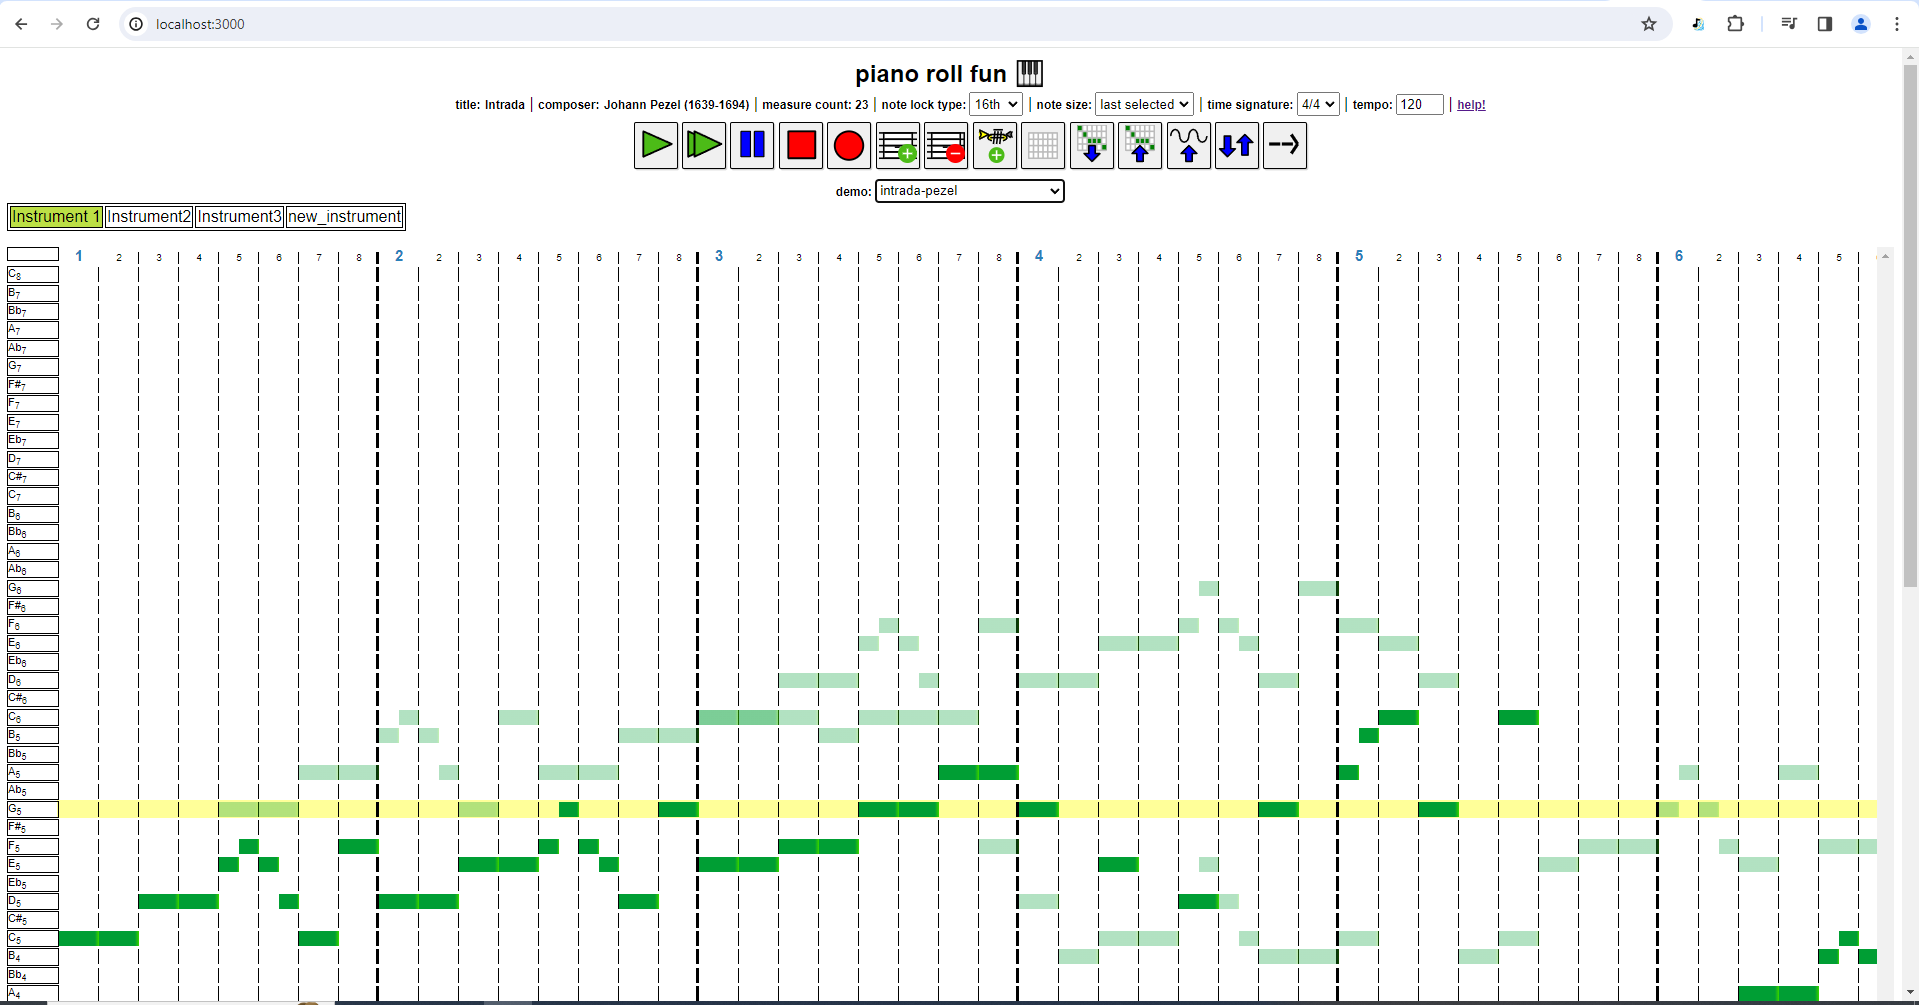
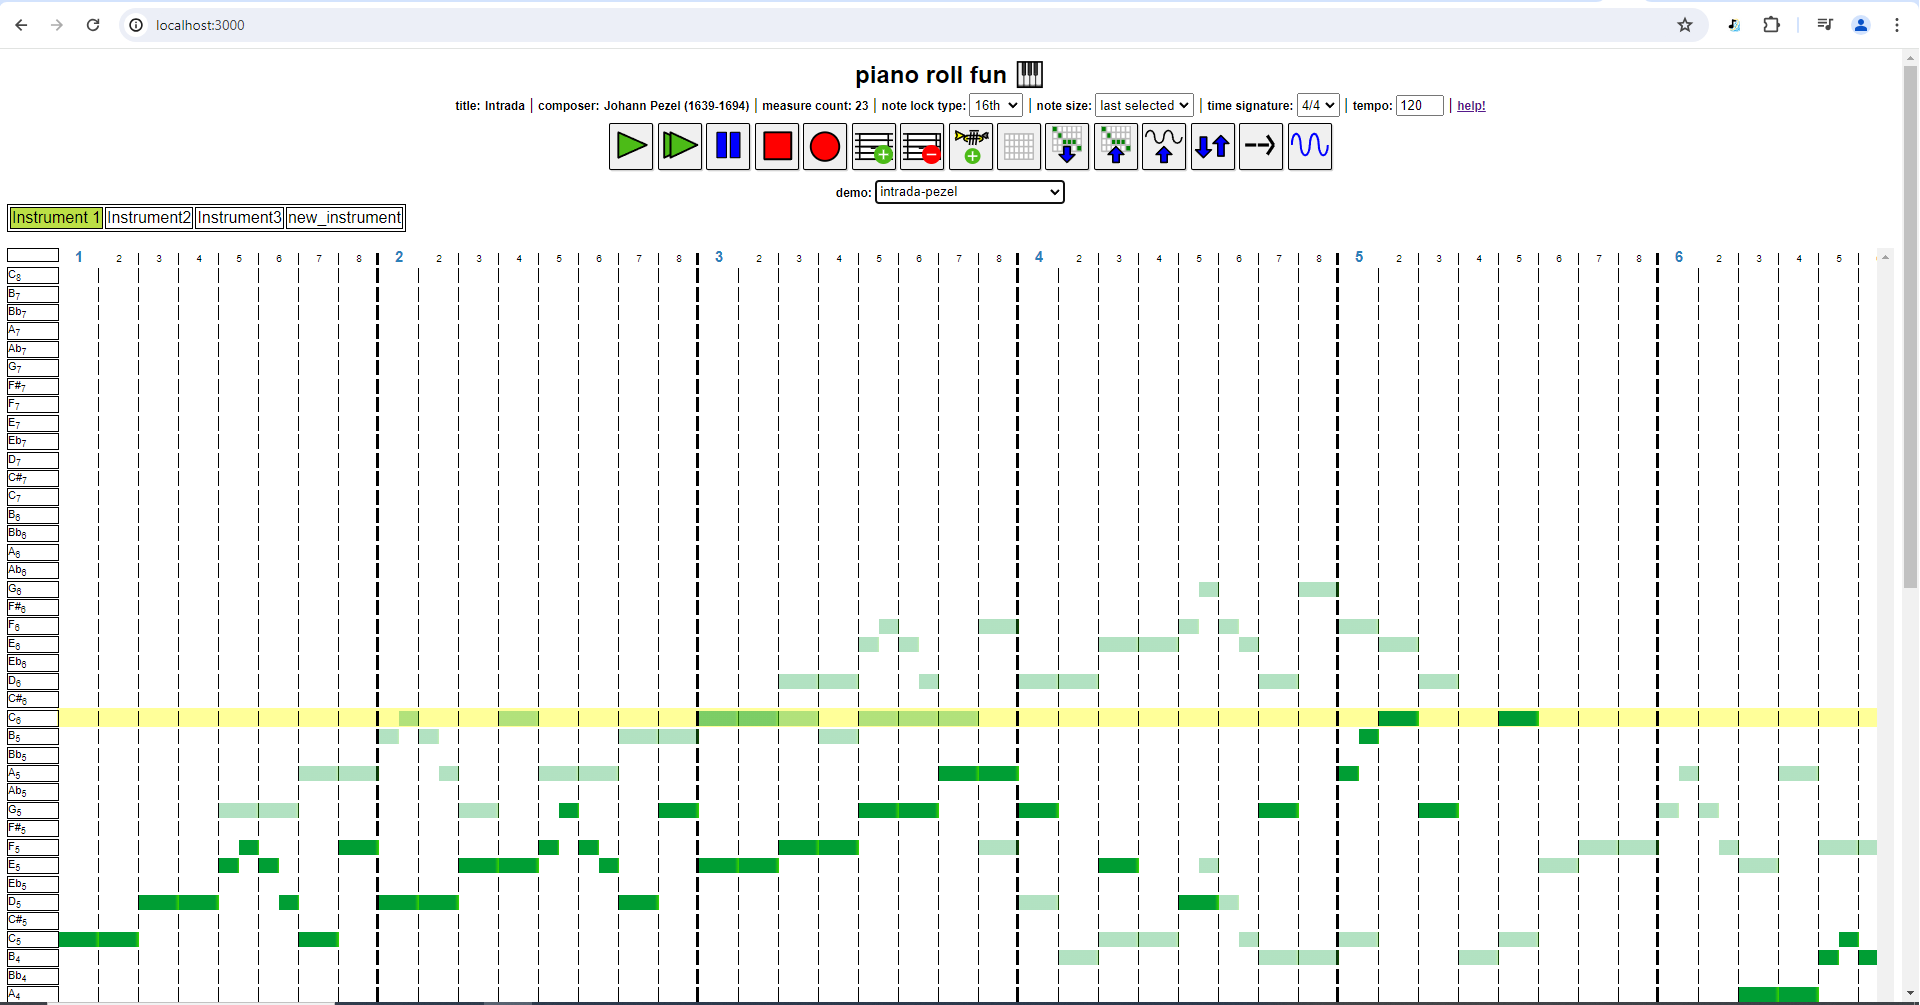
more stuff

diff --git a/src/playbackFunctionality.js b/src/playbackFunctionality.js
@@ -415,13 +415,10 @@ function configureInstrumentNotes(routes, pianoRollObject, instrumentGainNodes, 
                 if(pianoRollObject.recording){
                     panNode.connect(pianoRollObject.audioContextDestMediaStream);
                 }
-                panNode.connect(pianoRollObject.audioContextDestOriginal);
                 
                 if(pianoRollObject.showVisualizer){
-                    //newGain.connect(pianoRollObject.analyserNode);
                     panNode.connect(pianoRollObject.analyserNode);
                 }else{
-                    //newGain.connect(pianoRollObject.audioContext.destination);
                     panNode.connect(pianoRollObject.audioContextDestOriginal);
                 }
                 
@@ -853,7 +850,7 @@ function recordPlay(pianoRollObject){
     }
 }
 
-//paused playback
+// paused playback
 // @param pianoRollObject: an instance of PianoRoll
 function pausePlay(pianoRollObject){
     // highlightHeader comes from gridBuilder.js
@@ -871,12 +868,8 @@ function pausePlay(pianoRollObject){
     
     // add a new fresh gain node for each instrument
     for(var j = 0; j < pianoRollObject.instruments.length; j++){
-        // I don't think this actually helps since we might have multiple gains per instrument :<
-        //pianoRollObject.instruments[j].gain.disconnect();
-        
         // create a new gain for each instrument (this really is only needed when clicking notes, not playback)
         var newGain = initGain(pianoRollObject.audioContext);
-        
         
         if(pianoRollObject.showVisualizer){
             newGain.connect(pianoRollObject.analyserNode);
@@ -911,7 +904,6 @@ function stopPlay(pianoRollObject){
         
         // create a new gain for each instrument (this really is only needed when clicking notes, not playback)
         var newGain = initGain(pianoRollObject.audioContext);
-        
         
         if(pianoRollObject.showVisualizer){
             newGain.connect(pianoRollObject.analyserNode);
@@ -955,7 +947,6 @@ function stopPlay(pianoRollObject){
 function createNewInstrument(name, pianoRollObject){
     // make new gain node for the instrument 
     var newGain = initGain(pianoRollObject.audioContext);
-    //newGain.connect(pianoRollObject.audioContext.destination);
     
     if(pianoRollObject.showVisualizer){
         newGain.connect(pianoRollObject.analyserNode);

diff --git a/src/utils.js b/src/utils.js
@@ -34,8 +34,11 @@ function bindButtons(pianoRollObject){
     });
     
     document.getElementById('clearGrid').addEventListener('click', function(){
-        clearGrid(pianoRollObject.currentInstrument);
-        showOnionSkin(pianoRollObject);
+        const confirmClear = confirm('are you sure you want to clear the grid?');
+        if(confirmClear){
+          clearGrid(pianoRollObject.currentInstrument);
+          showOnionSkin(pianoRollObject);
+        }
     });
     
     document.getElementById('addInstrument').addEventListener('click', function(){
@@ -71,20 +74,19 @@ function bindButtons(pianoRollObject){
     
     document.getElementById('toggleVisualizer').addEventListener('click', function(evt){
         pianoRoll.showVisualizer = !pianoRoll.showVisualizer;
-        if(pianoRoll.showVisualizer){
-            evt.target.style.border = '1px solid #00ff00';
-        }else{
-            evt.target.style.border = '';
-        }
+        document.getElementById('toggleVisualizer').style.backgroundColor = pianoRoll.showVisualizer ? "#d0d0d0" : "";
     });
     
     document.getElementById('record').addEventListener('click', function(){
-        if(this.style.border === ""){
-            this.style.border = "solid 2px rgb(180, 0 ,0)";
+        const confirmRecord = confirm('are you sure you want to record?');
+        if(confirmRecord){
+          if(this.style.border === ""){
+              this.style.border = "solid 2px rgb(180, 0 ,0)";
+          }
+          context.resume().then(() => {
+              recordPlay(pianoRoll);
+          });
         }
-        context.resume().then(() => {
-            recordPlay(pianoRoll);
-        });
     });
     
     document.getElementById("changeTempo").addEventListener('change', function(){

diff --git a/index.html b/index.html
@@ -400,7 +400,26 @@
             </li>
             
             <li>
-                <button id='toggleVisualizer'> visualizer </button>
+                <button id='toggleVisualizer' title='toggle visualizer' class='btn'>
+                  <svg viewBox="0 0 24 24" width="38" height="38">
+                        <path
+                            d="
+                                M 0.5 12
+                                a 1.9 4.8 0 1 1 5.6 0
+                                m 0.05 0
+                                a 2.1 4.8 0 1 0 5.7 0
+                                m 0.05 0
+                                a 1.9 4.8 0 1 1 5.6 0
+                                m 0.05 0
+                                a 2.1 4.8 0 1 0 5.7 0
+                                "
+                            stroke="blue"
+                            stroke-width="1.3"
+                            fill="transparent"
+                            stroke-linejoin="round"
+                        />
+                  </svg>
+                </button>
             </li>
         </ul>
         

diff --git a/src/domModification.js b/src/domModification.js
@@ -568,8 +568,10 @@ var onendFunc = function(colHeaderId, lastColId, pianoRollObject){
             }
         }
         
-        // visualization stuff
-        if(pianoRollObject.analyserNode){
+        // do visualization stuff
+        // TODO: alternatively, we might not need to rely on an oscillator's onended callback
+        // maybe we can try using requestAnimationFrame and just update the visualizer that way?
+        if(pianoRollObject.visualizerCanvas){
             updateVisualizer(pianoRollObject);
         }
 

diff --git a/src/visualizer.js b/src/visualizer.js
@@ -2,7 +2,10 @@
 
 // @param gridDivId: a string representing an HTML element id of the grid
 // @param pianoRollObject: an instance of PianoRoll 
-function buildVisualizer(gridDivId, pianoRollObject){  
+function buildVisualizer(gridDivId, pianoRollObject){
+    // remove existing visualizer if there is one (e.g. if pause -> play)
+    removeVisualizer(pianoRollObject);
+  
     const thePiano = document.getElementById(gridDivId);
     
     const dimensions = thePiano.getBoundingClientRect();

diff --git a/README.md b/README.md
@@ -12,6 +12,8 @@ also influenced a bit by PxTone Collage, another great application!
 - each note is customizable    
 - togglable onion skin    
 - recordable    
+- has a visualizer (although may be a bit buggy atm)    
+![visualizer](screenshots/visualizer.gif "visualizer")    
     
 ### instructions:    
 - To change the name of the piece or the composer, double-click on 'title' or 'composer', just above the buttons.     
@@ -98,7 +100,3 @@ copycat_demo - my own composition (check out the original [here](https://opengam
 なかよしセンセーション (Princess Connect! Re:Dive) - Kaoru Okubo    
     
 Route 209 theme (Pokémon Diamond/Pearl) - Hitomi Sato
-
-
-    
-
